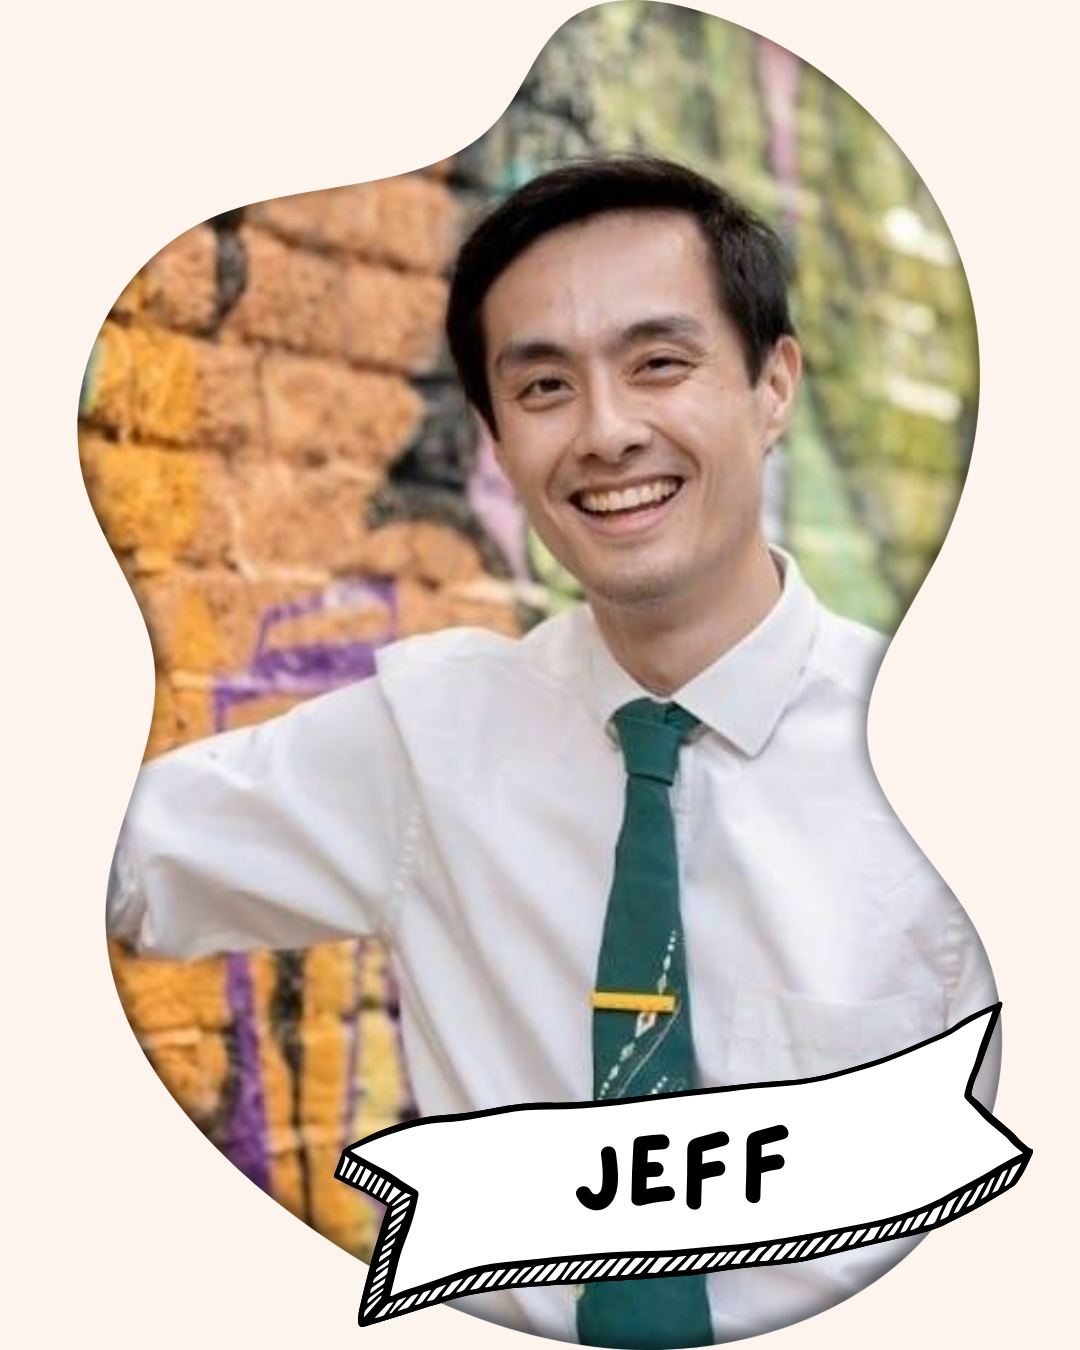
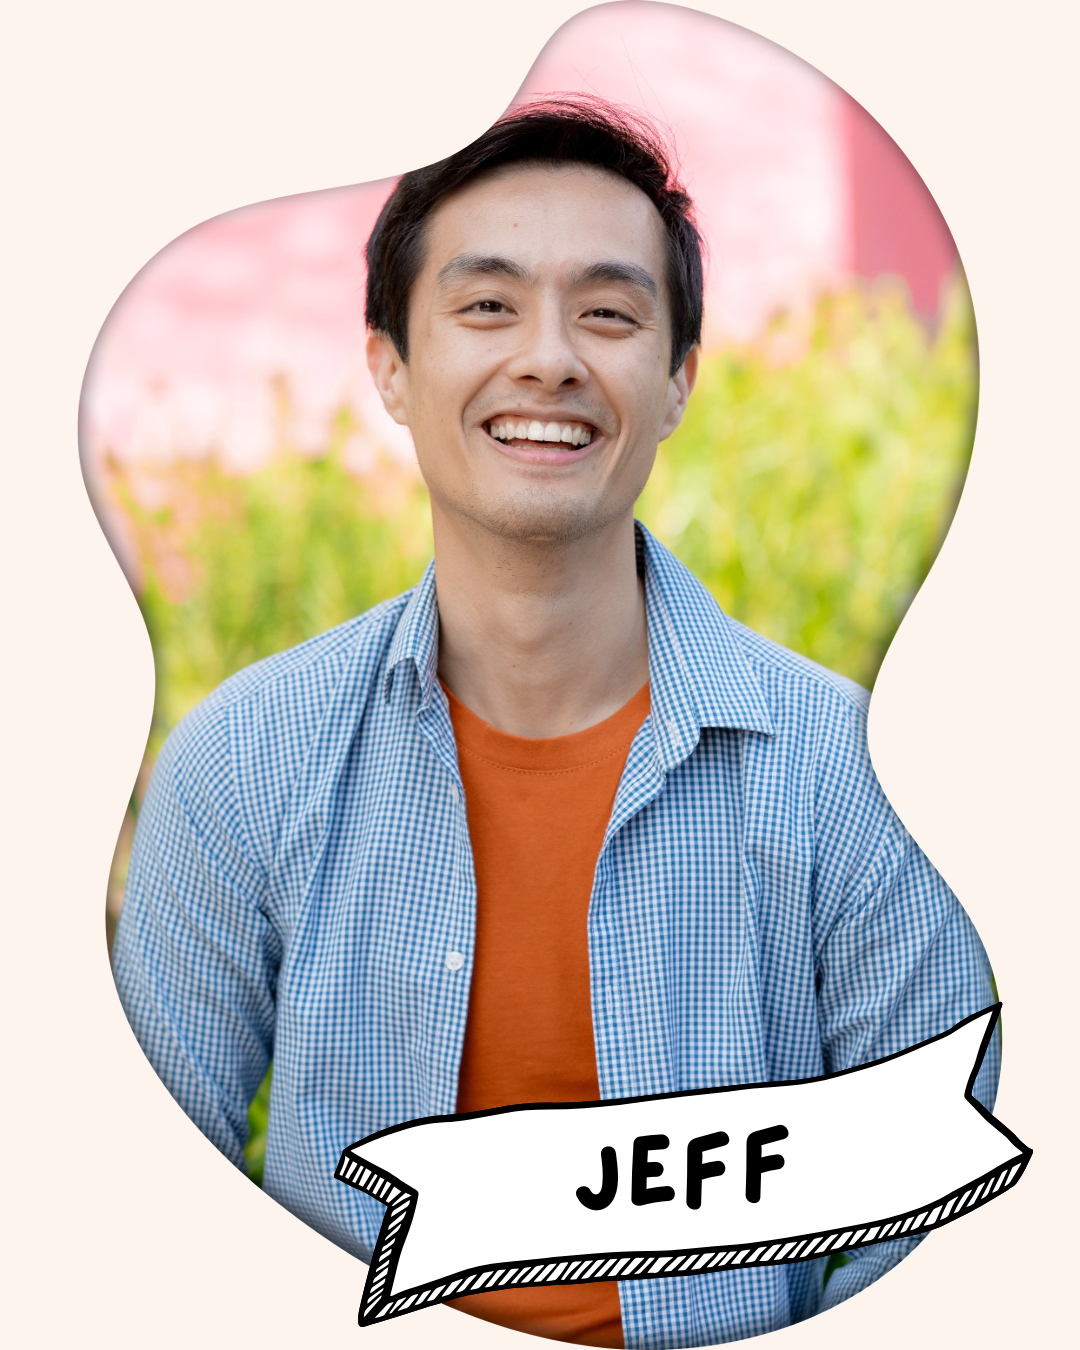
New Jeff image. header text size changed

diff --git a/app/pages/values.vue b/app/pages/values.vue
@@ -24,7 +24,7 @@ import DripTransparent from "@/assets/img/drip-transparent.png";
       <section v-for="(value, index) in values" :key="index">
         <div class="py-12">
           <UiContainer class="!max-w-3xl">
-            <h2 class="mb-2 text-center text-4xl font-semibold">
+            <h2 class="mb-6 text-center text-5xl font-semibold">
               {{ value.title }}
             </h2>
             <p v-for="(item, i) in value.content" :key="i" class="mb-4 text-sm">
